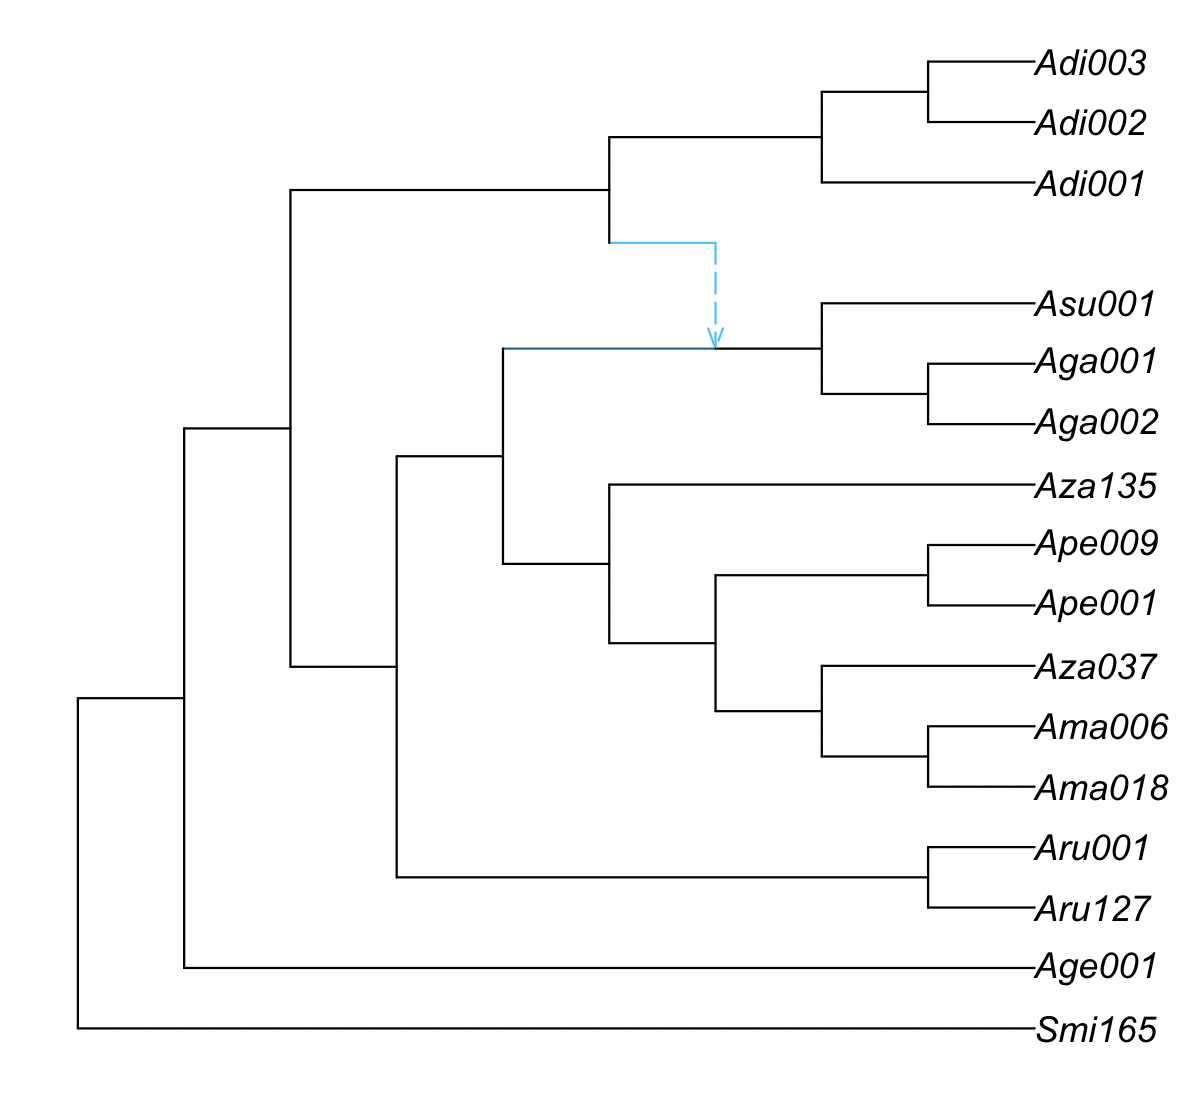
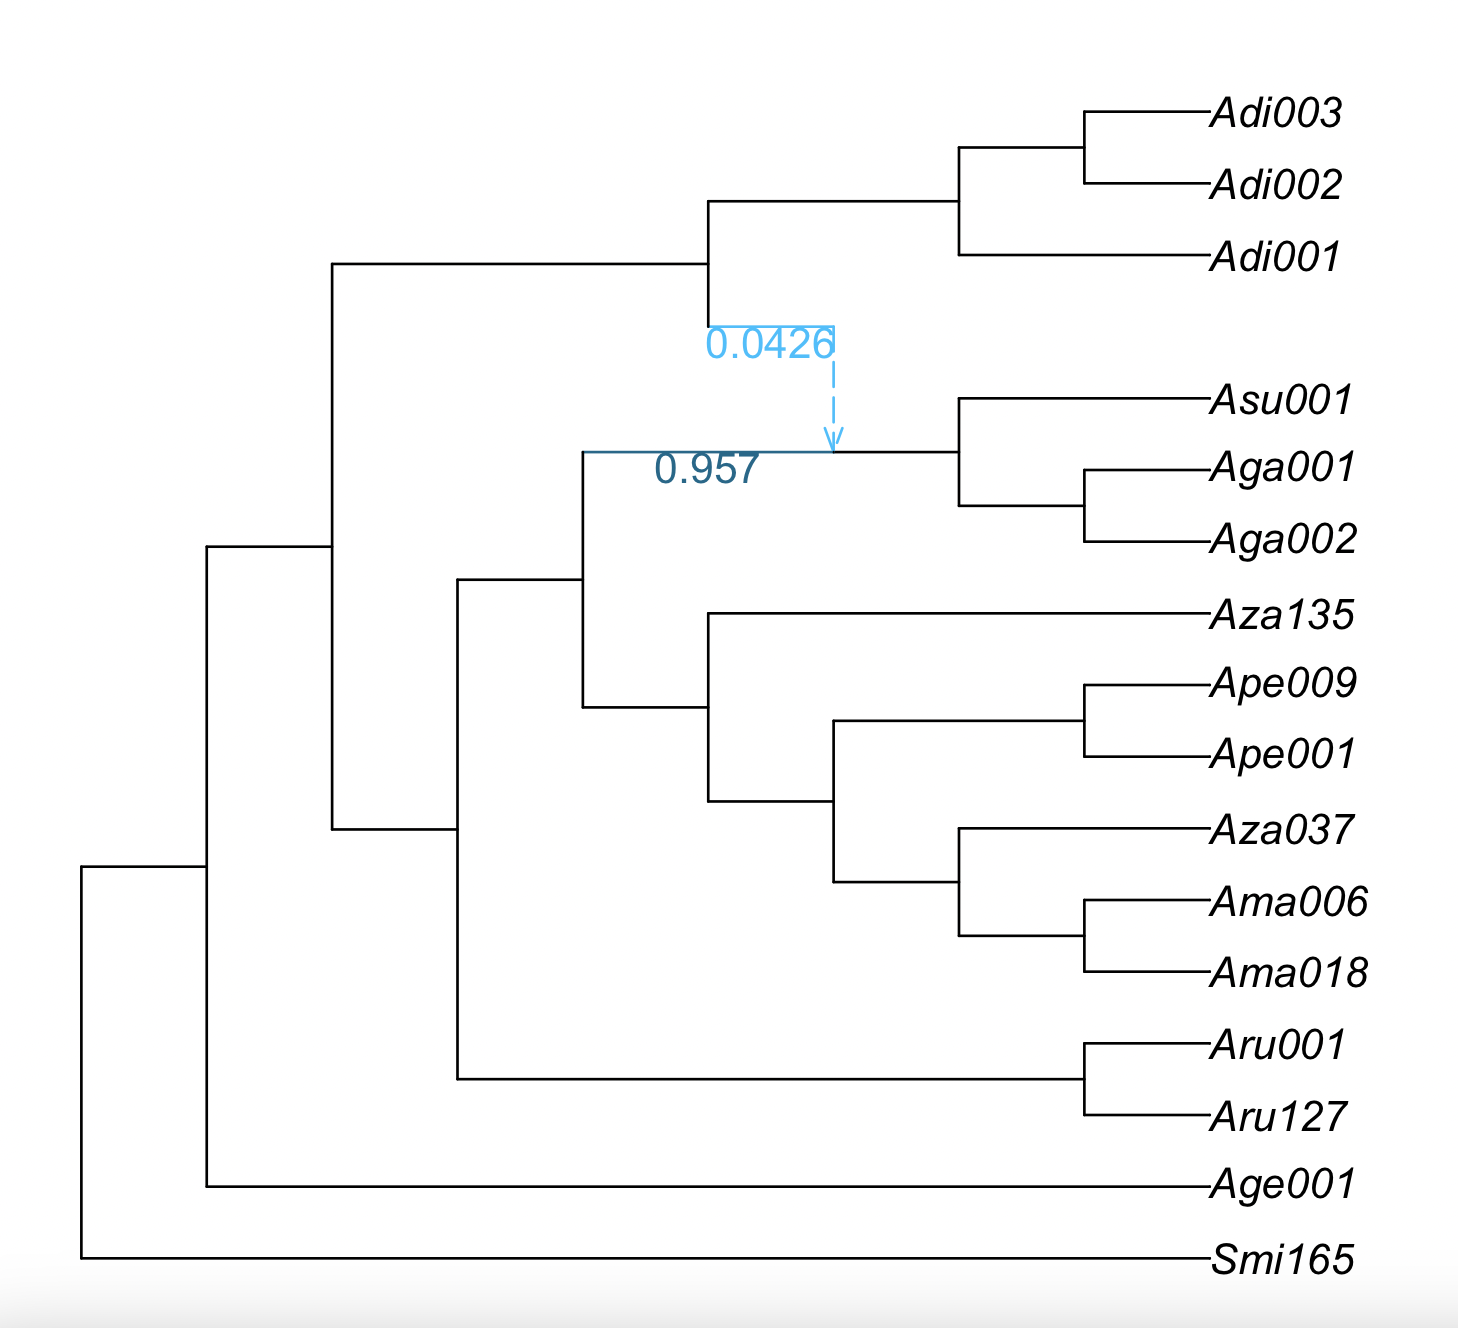
added info about slurm

diff --git a/lecture-notes/lecture4.md b/lecture-notes/lecture4.md
@@ -124,10 +124,10 @@ If you get an error when trying to root at your outgroup, make sure to check the
 
 Now, we will plot the estimated networks:
 ```julia
-plot(net1, :R);
+plot(net1, :R, showGamma=true);
 ```
 
-<div style="text-align:center"><img src="../images/net1-snaq.png" width="750"/></div>
+<div style="text-align:center"><img src="../images/net1-snaq.png" width="550"/></div>
 
 If a plot window didn't pop up, an alternative is to save the plot
 as a pdf and open it outside of julia:
@@ -197,7 +197,7 @@ rootatnode!(net1, "Smi165")
 
 #### 3.1 Bootstrap summary of tree edges
 
-Same as with species tree, we simply count the number of times each edge in the major tree from the estimated network appears in the bootstrap major trees.
+Similarly to how we compute bootstrap support on species trees, we simply count the number of times each edge in the major tree from the estimated network appears in the bootstrap major trees.
 
 ```julia
 BSe_tree, tree1 = treeEdgesBootstrap(bootnet,net1)
@@ -227,8 +227,7 @@ julia> show(BSe_tree, allrows=true)
   13 │         32       100.0
 ```
 
-All the tree edges have 100% bootstrap support. The following command would allow us to 
-list the edges that do not have 100% bootstrap support (in this case, this dataframe is empty):
+In this case, all the tree edges have 100% bootstrap support. The following command would allow us to list the edges that do not have 100% bootstrap support (in this case, this data frame is empty):
 
 ```julia
 julia> BSe_tree[BSe_tree[!,:proportion] .< 100.0, :]
@@ -243,16 +242,23 @@ bootstrap support less than 100%.
 plot(net1,  :R, edgeLabel=BSe_tree[BSe_tree[!,:proportion] .< 100.0, :]);
 ```
 
-In this case, the plot is the same as before because all edges have 100% bootstrap support.
+In this case, the plot is the same as before because all edges have 100% bootstrap support,
+so we do not show it.
 
 #### 3.2 Bootstrap summary of hybridization events
 
-We focus on three types of clades:
+Summarizing bootstrap support on hybridization events is not straightforward because
+different edges could correspond to the same split in taxa.
+
+To summarize bootstrap support on networks, we focus on three types of clades:
 - hybrid clade: hardwired cluster (descendants) of either hybrid edge
 - major sister clade: hardwired cluster of the sibling edge of the major hybrid edge
 - minor sister clade: hardwired cluster of the sibling edge of the minor hybrid edge
 
 <br><img src="../images/hybridBSexplain.png" width="403">
+
+The following function computes the proportion of times that different clades 
+appear as hybrid, major sister or minor sister in the bootstrap networks:
 
 ```julia
 BSn, BSe, BSc, BSgam, BSedgenum = hybridBootstrapSupport(bootnet, net1);
@@ -261,6 +267,8 @@ BSn, BSe, BSc, BSgam, BSedgenum = hybridBootstrapSupport(bootnet, net1);
 - `BSe` is a table of bootstrap frequencies associated with **e**dges, and
 - `BSc` describes the makeup of all **c**lades.
 
+First, we plot the proportion of times that the major and minor hybrid edges of the best 
+network appear in the bootstrap networks:
 
 ```julia
 plot(net1, :R, edgeLabel=BSe[!,[:edge,:BS_hybrid_edge]]);
@@ -269,8 +277,7 @@ plot(net1, :R, edgeLabel=BSe[!,[:edge,:BS_hybrid_edge]]);
 <div style="text-align:center"><img src="../images/net1-bse.png" width="750"/></div>
 
 In this case, there are only 10% of bootstrap networks that have the major hybrid edge, 
-and 0% bootstrap networks that have the minor hybrid edge. Recall that we only ran 10 bootstrap
-replicates with 1 run each, so the runs have likely not converged in this case.
+and 0% bootstrap networks that have the minor hybrid edge. Recall that we only ran 10 bootstrap replicates with 1 run each, so the runs have likely not converged in this case.
 
 What do the remaining bootstrap networks have?
 
@@ -299,12 +306,9 @@ julia> BSe
 
 We can understand the meaning of each column with `? hybridBootstrapSupport` in julia.
 We can see, for example, that in 30% of the bootstrap networks there is a hybrid edge 
-from `Ape001` to `Ape009`. Because `BS_major` is also 30, we conclude that this edge appears as the 
-major hybrid edge in 30% of the bootstrap networks. We note that this edge does not appear in the
-estimated network (`net1`) since the column `edge` is `missing`.
+from `Ape001` to `Ape009`. Because `BS_major` is also 30, we conclude that this edge appears as the major hybrid edge in 30% of the bootstrap networks. We note that this edge does not appear in the estimated network (`net1`) since the column `edge` is `missing`.
 
-Sometimes, there is not a taxon name, but a clade, like `c_minus10`, for example, in the first row.
-The information of which clade this represents can be found in the `BSc` dataframe:
+Sometimes, there is not a taxon name, but a clade, like `c_minus10`, for example, in the first row. The information of which clade this represents can be found in the `BSc` data frame:
 
 ```julia
 julia> BSc
@@ -357,7 +361,7 @@ julia> BSc[!,:taxa][BSc[!,:H21]]
  "Asu001"
 ```
 
-Bootstrap support for the full reticulation relationships in the network, one at each hybrid node (support for same hybrid with same sister clades)
+We can also quantity the proportion of the times that the same hybridization event (same hybrid node with same major and minor hybrid edges) appear in the bootstrap networks.
 
 ```julia
 plot(net1, :R, nodeLabel=BSn[!,[:hybridnode,:BS_hybrid_samesisters]]);

diff --git a/lecture-notes/set-up.md b/lecture-notes/set-up.md
@@ -115,6 +115,8 @@ pwd ## you are in /scratch or your working directory
 git clone https://github.com/nstenz/TICR.git
 ```
 
+We will be using the [standard scripts](https://github.com/nstenz/TICR/tree/master/scripts) to run on a local machine or server, but note that there are SLURM scripts available [here](https://github.com/nstenz/TICR/tree/master/scripts-cluster).
+
 # Downloading data via git clone
 
 Whether you are in `/scratch` inside the Docker, or in a project directory `my-analysis`, you can clone this repository with the data:
@@ -132,4 +134,10 @@ If you are using your own data, simply create a folder with your data.
 
 # For participants in the RBG workshop
 
-[Information missing on the set up in the cluster]
+Information ssh-ing to the Crop Diversity HPC cluster can be found [here](https://help.cropdiversity.ac.uk/ssh.html).
+
+Basically, you have to use your username and passwork (or pass key):
+
+```
+ssh USERNAME@gruffalo.cropdiversity.co.uk
+```

diff --git a/lecture-notes/lecture5.md b/lecture-notes/lecture5.md
@@ -1,0 +1,14 @@
+---
+layout: default
+title: Trait evolution
+nav_order: 7
+---
+
+# Trait evolution on phylogenetic networks
+
+We assume a fixed network, correctly rooted, with branch lengths proportional to calendar time:
+
+```julia
+net1 = readTopology("net1_snaq.out")
+rootatnode!(net1, "Smi165")
+```
